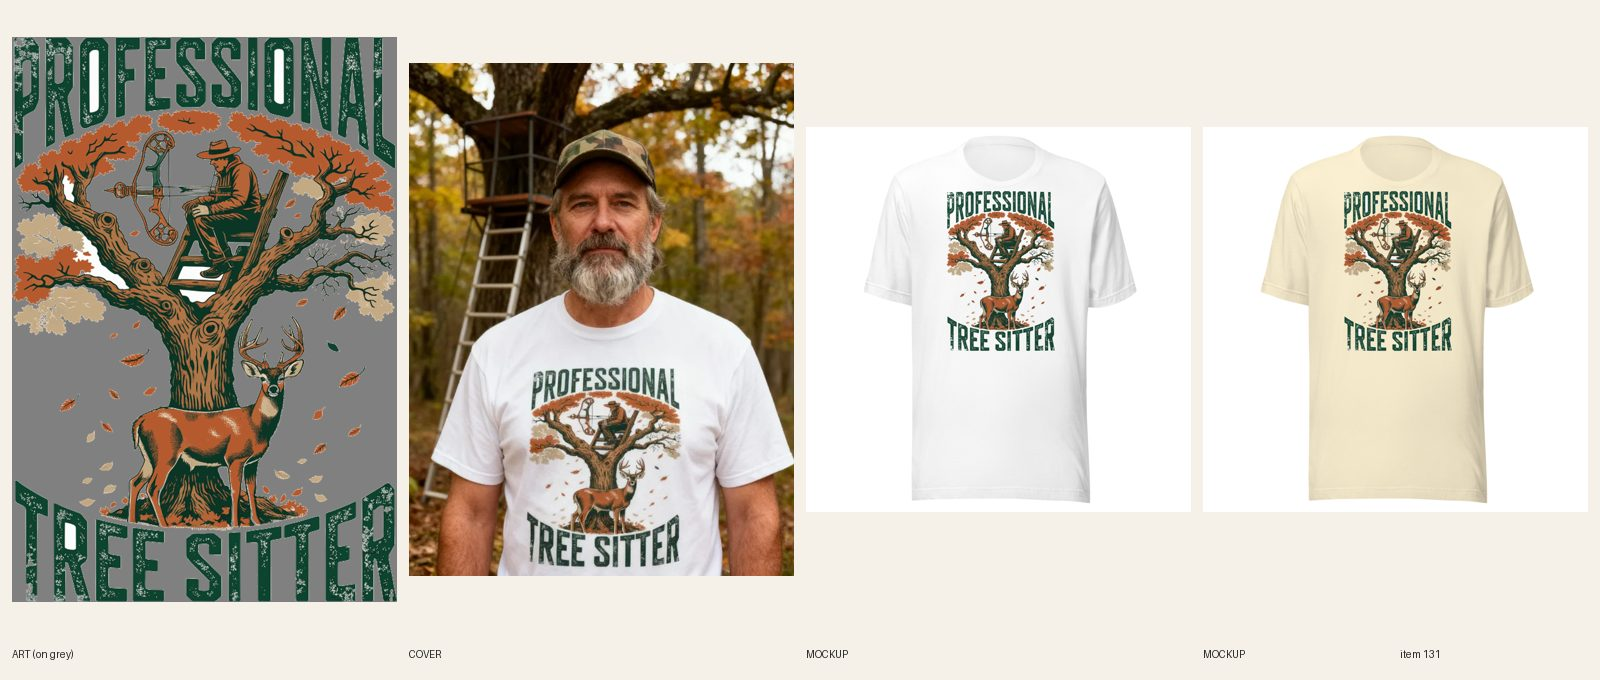
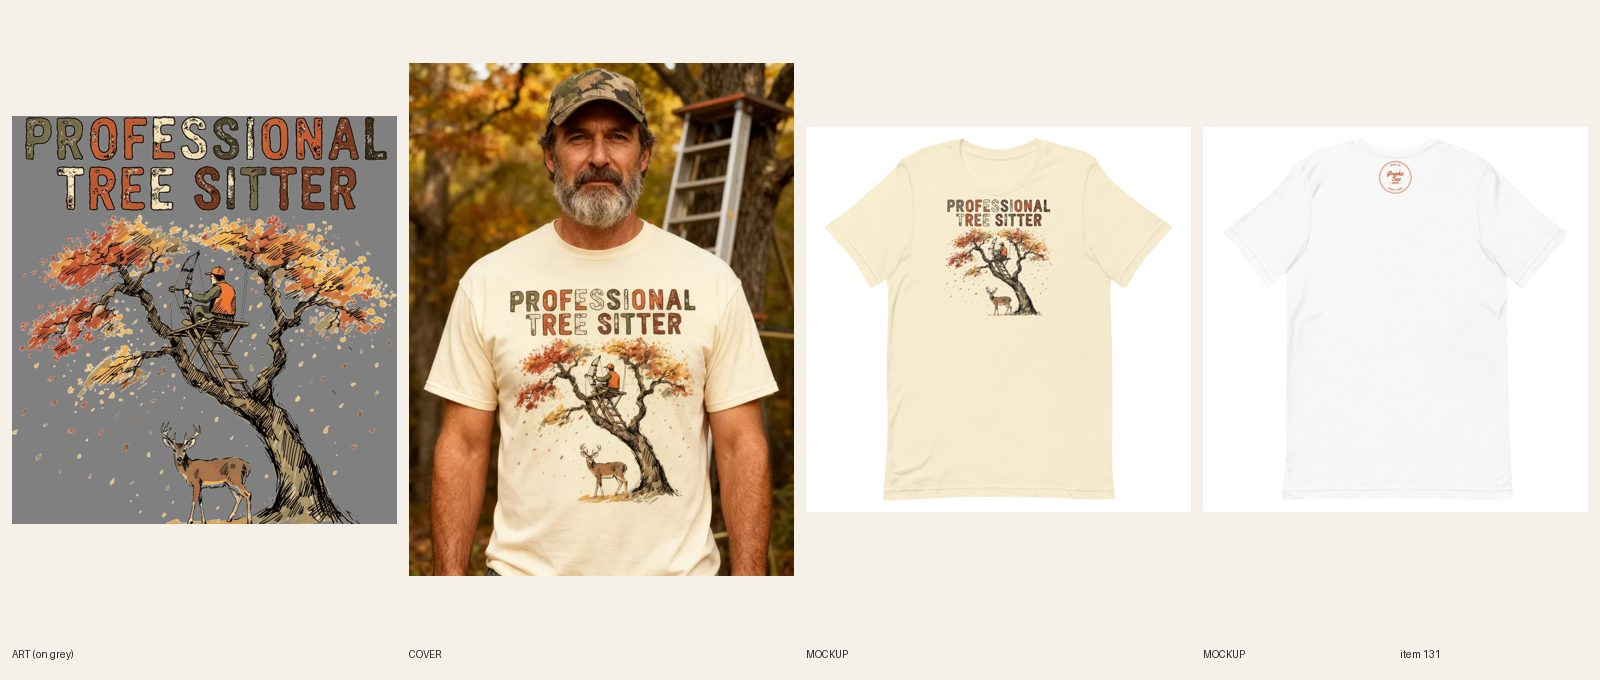
[B] wip 131 redo (new art, cover) + 177 draft created, cover

diff --git a/src/data/covers.ts b/src/data/covers.ts
@@ -165,11 +165,12 @@ export const covers: Record<string, { src: string; alt: string }> = {
   'womens-y2k-still-loading-graphic-tee': { src: '/covers/womens-y2k-still-loading-graphic-tee.webp', alt: 'Woman with a sleek black ponytail and butterfly clips standing in a bedroom with a vintage computer and posters, wearing the Still Loading Since 1999 tee' },
   'womens-y2k-hot-mess-express-graphic-tee': { src: '/covers/womens-y2k-hot-mess-express-graphic-tee.webp', alt: 'Woman with curly red hair in space buns walking on a city sidewalk outside a coffee shop, wearing the Hot Mess Express tee' },
   'womens-cropped-espresso-yourself-graphic-tee': { src: '/covers/womens-cropped-espresso-yourself-graphic-tee.webp', alt: 'Woman with long brown hair and bangs leaning on a cafe espresso bar, wearing the Espresso Yourself cropped tee' },
-  'mens-hunting-professional-tree-sitter-graphic-tee': { src: '/covers/mens-hunting-professional-tree-sitter-graphic-tee.webp', alt: 'Bearded man in a camo cap standing in autumn woods beside a tree stand ladder, wearing the Professional Tree Sitter tee' },
+  'mens-hunting-professional-tree-sitter-graphic-tee': { src: '/covers/mens-hunting-professional-tree-sitter-graphic-tee.webp', alt: 'Bearded man in a camo cap standing in autumn woods beside a tree stand ladder, wearing the Professional Tree Sitter bowhunting tee' },
   'womens-nurse-dont-say-the-q-word-graphic-tee': { src: '/covers/womens-nurse-dont-say-the-q-word-graphic-tee.webp', alt: 'Woman in navy scrub pants with a messy bun standing outside a hospital emergency entrance at sunset, wearing the Don\'t Say the Q Word tee' },
   'unisex-anime-kaiju-naps-graphic-tee': { src: '/covers/unisex-anime-kaiju-naps-graphic-tee.webp', alt: 'Man and woman standing together on a city rooftop at sunset, both wearing the Destroyer of Cities, Lover of Naps tee' },
   'mens-christmas-define-naughty-graphic-tee': { src: '/covers/mens-christmas-define-naughty-graphic-tee.webp', alt: 'Man in a decorated living room on Christmas morning, torn wrapping paper on the floor, wearing the Define Naughty Santa tee in navy' },
   'womens-christmas-jolly-ish-graphic-tee': { src: '/covers/womens-christmas-jolly-ish-graphic-tee.webp', alt: 'Woman with long dark curls and gold hoop earrings at a Christmas market at dusk under string lights, holding a paper shopping bag, wearing the Jolly-ish plaid Christmas shirt' },
+  'mens-hunting-opening-day-zip-hoodie': { src: '/covers/mens-hunting-opening-day-zip-hoodie.webp', alt: 'Man in a blaze-orange beanie looking over his shoulder at a frosty field at first light, wearing the Opening Day zip hoodie with the buck print on the back' },
 };
 
 export const coverFor = (handle: string) => covers[handle] ?? null;

diff --git a/docs/model-registry.md b/docs/model-registry.md
@@ -230,7 +230,7 @@ Rows 11–43 were re-pointed on 2026-10-08 when the briefs were rewritten from d
 | 244 | Black man in his early 50s, grey goatee, broad build, ball cap | RESERVED — #174 Ugly But Delicious catfish cover |
 | 245 | White man in his mid 40s, blond buzz cut, ruddy cheeks, heavyset | RESERVED — #175 Eyes on the Prize walleye cover |
 | 246 | Latino man in his late 20s, short fade haircut, thin mustache, athletic build | RESERVED — #176 Swing Shift kettlebell cover |
-| 247 | White man in his late 30s, dark brown hair under a blaze-orange beanie, short beard | RESERVED — #177 Opening Day zip hoodie cover (director 2026-10-16) |
+| 247 | White man in his late 30s, dark brown hair under a blaze-orange beanie, short beard | USED 2026-10-16 — #177 Opening Day zip hoodie cover (fal Seedream 4, frosty field, back view; try 1 kept) |
 | 248 | Cherokee man in his early 60s, grey ponytail, weathered face | RESERVED — #178 Deer Diary zip hoodie cover |
 | 249 | Pair: Thai-American man in his early 20s, bleached tips + Black woman in her early 20s, short curly fro | RESERVED — #179 Kaiju Naps oversized hoodie cover (man + woman) |
 | 250 | Pair: Vietnamese-American man in his mid 20s, round glasses + white woman in her mid 20s, pink-dyed bob | RESERVED — #180 Mecha Mondays oversized hoodie cover (man + woman) |
